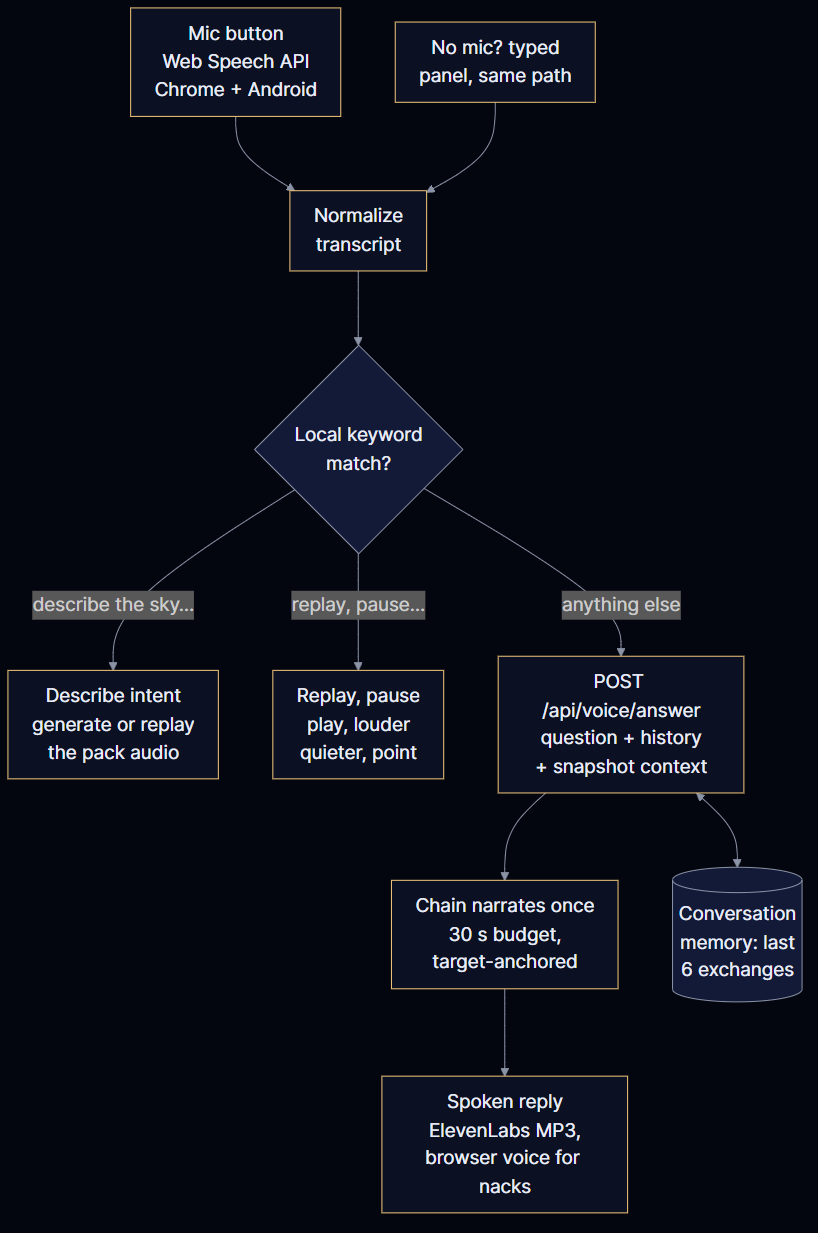
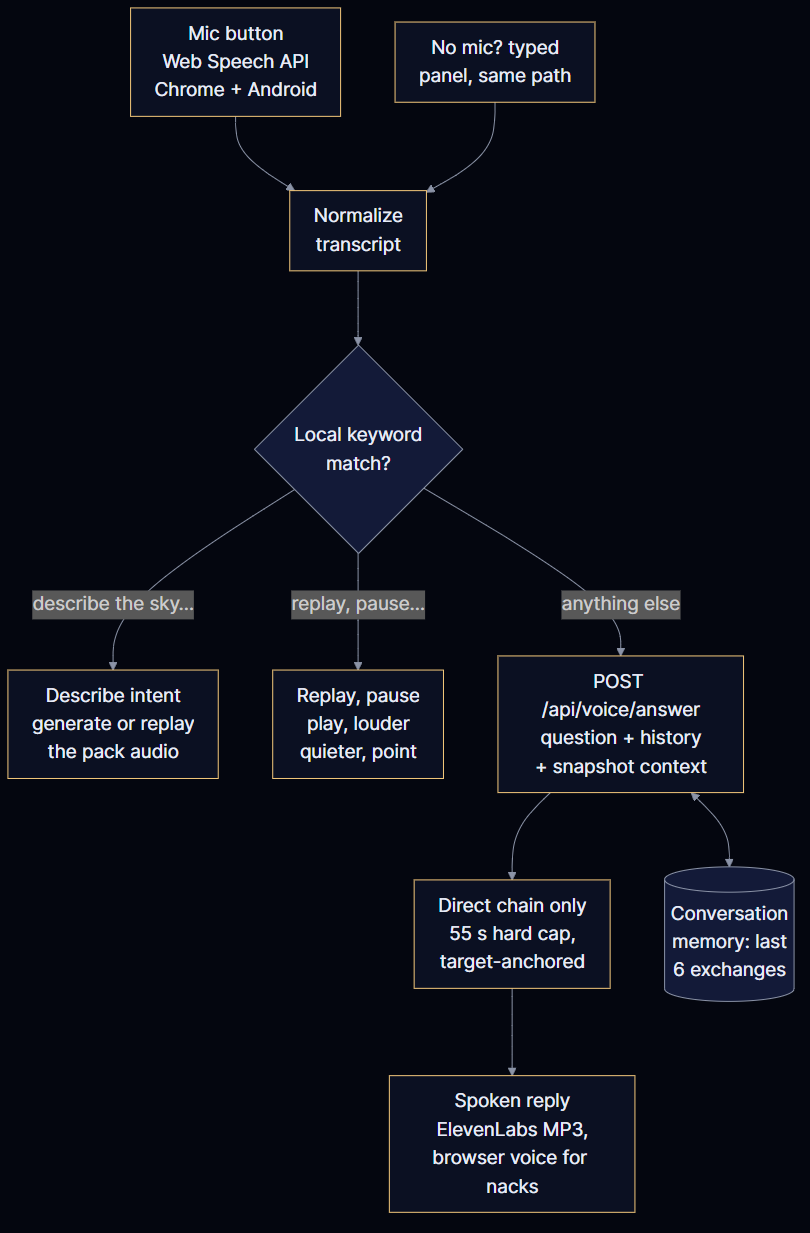
fix: bound voice chain, fuzzy describe intent, no default-city answers

diff --git a/src/frontend/src/lib/voiceIntent.ts b/src/frontend/src/lib/voiceIntent.ts
@@ -66,6 +66,19 @@ const QUESTION_OPENERS = [
   'could you', 'will there', 'do you',
 ];
 
+/**
+ * Named bodies — a question naming one is about THAT body ("tell me more
+ * about Saturn", "is Venus up tonight") and must reach the agent, never
+ * the whole-sky describe path. Generic words stay too: "what planets are
+ * up" is a listing question for the agent, not a narration request.
+ */
+const BODY_WORDS = [
+  'sun', 'moon', 'mercury', 'venus', 'mars', 'jupiter', 'saturn',
+  'uranus', 'neptune', 'star', 'stars', 'planet', 'planets',
+  'constellation', 'orion', 'sirius', 'vega', 'polaris', 'iss',
+  'satellite', 'satellites', 'milky way', 'comet', 'meteor', 'meteors',
+];
+
 function normalize(text: string): string {
   return text.toLowerCase().replace(/[?!.,;:]/g, '').replace(/\s+/g, ' ').trim();
 }
@@ -87,7 +100,8 @@ export interface MatchOptions {
 
 /**
  * Match a final transcript against the keyword list. Priority order is
- * deliberate: volume, then transport controls, then narration, then wake.
+ * deliberate: volume, then transport controls, then preset narration
+ * phrases, then fuzzy sky/tonight describe (no named body), then wake.
  * After that, anything shaped like a genuine question goes to the agent —
  * no wake word required, because the mic is already explicitly on and the
  * user is clearly addressing the sky, not musing aloud.
@@ -115,6 +129,16 @@ export function matchIntent(transcript: string, opts: MatchOptions = {}): VoiceI
 
   const words = text.split(' ');
   const substantial = words.length >= 3;
+  // Fuzzy describe: sky/tonight talk with no named body in it ("what's
+  // tonight sky", "how's the sky tonight") is a narration request, even
+  // though it matches no preset phrase. Runs before question routing so
+  // such speech never pays for a server round-trip.
+  if (words.length >= 2) {
+    const tokens = new Set(words);
+    const skyTalk = tokens.has('sky') || tokens.has('tonight');
+    const namesBody = BODY_WORDS.some((b) => includesPhrase(text, b));
+    if (skyTalk && !namesBody) return { type: 'describe' };
+  }
   // Direct questions: ends with "?" or opens like one ("where can…").
   // The mic being on is consent enough — no wake word demanded.
   if (substantial) {

diff --git a/src/frontend/src/App.tsx b/src/frontend/src/App.tsx
@@ -145,6 +145,17 @@ export default function App() {
     lat: geo.lat ?? 22.57,
     lon: geo.lon ?? 88.36,
   });
+  // Voice answers must never silently use the default city: prefer the live
+  // fix, fall back to the prepared pack's sky, else no coordinates at all
+  // (VoiceBar then says so instead of answering for the wrong place).
+  const snapLoc = packData?.snapshot?.location;
+  const askLat = geo.lat ?? (typeof snapLoc?.latitude === 'number' ? snapLoc.latitude : null);
+  const askLon = geo.lon ?? (typeof snapLoc?.longitude === 'number' ? snapLoc.longitude : null);
+  // Pointer opens only from a prepared pack, so the pack's sky always
+  // exists; live GPS wins when present. The trailing defaults are
+  // unreachable in practice (the button is snapshot-gated).
+  const ptrLat = askLat ?? (typeof snapLoc?.latitude === 'number' ? snapLoc.latitude : 22.57);
+  const ptrLon = askLon ?? (typeof snapLoc?.longitude === 'number' ? snapLoc.longitude : 88.36);
 
   const voiceDescribe = () => {
     if (hasPack) {
@@ -387,8 +398,8 @@ export default function App() {
           onReplay={voiceReplay}
           onTransport={voiceTransport}
           onVolume={voiceVolume}
-          lat={geo.lat}
-          lon={geo.lon}
+          lat={askLat}
+          lon={askLon}
         />
 
         <LocationGate
@@ -402,8 +413,8 @@ export default function App() {
         <BlackoutPointerGate
           open={pointerOpen}
           snapshot={snapshot}
-          lat={geo.lat ?? 22.57}
-          lon={geo.lon ?? 88.36}
+          lat={ptrLat}
+          lon={ptrLon}
           onClose={() => setPointerOpen(false)}
           onTransport={voiceTransport}
           onReplay={() => {

diff --git a/src/frontend/src/components/VoiceBar.tsx b/src/frontend/src/components/VoiceBar.tsx
@@ -97,6 +97,18 @@ export function VoiceBar({ onDescribe, onReplay, onTransport, onVolume, lat, lon
     setReply(null);
     setReplyAudio(null);
     setFailReason(null);
+    // Never answer for a silent default city: without a real fix (or a
+    // prepared pack's sky) the reply would describe the wrong sky.
+    const qlat = lat;
+    const qlon = lon;
+    if (qlat === null || qlon === null) {
+      setAsk('error');
+      errorChime();
+      setFailReason(
+        'No location yet — share it in Prepare above, or prepare a pack first, so the answer is about your sky.',
+      );
+      return;
+    }
     await ensureAudio();
     workingChime();
     const ctrl = new AbortController();
@@ -107,8 +119,8 @@ export function VoiceBar({ onDescribe, onReplay, onTransport, onVolume, lat, lon
         headers: { 'Content-Type': 'application/json' },
         signal: ctrl.signal,
         body: JSON.stringify({
-          latitude: lat ?? 22.57,
-          longitude: lon ?? 88.36,
+          latitude: qlat,
+          longitude: qlon,
           timestamp: new Date().toISOString(),
           transcript: query,
           history: lastExchange.current ? [lastExchange.current] : [],

diff --git a/tests/integration/test_api.py b/tests/integration/test_api.py
@@ -150,9 +150,11 @@ class TestVoiceEndpoint:
 
         from src.backend.narration import llm_provider
 
-        async def fake_narrate(snap, duration_seconds=90, extra_context=None, budget_s=None):
+        async def fake_narrate(snap, duration_seconds=90, extra_context=None, budget_s=None,
+                             use_mastra=True):
             assert extra_context and "bright" in extra_context
             assert duration_seconds == 30
+            assert use_mastra is False  # voice never pays for a harness spawn
             return {"script": "The moon is high and the night is clear for listening.",
                     "word_count": 12, "word_budget": 72, "claims": [], "warnings": [],
                     "fallback_used": False, "model": "m", "provider": "test",
@@ -178,7 +180,8 @@ class TestVoiceEndpoint:
 
         seen: dict = {}
 
-        async def fake_narrate(snap, duration_seconds=90, extra_context=None, budget_s=None):
+        async def fake_narrate(snap, duration_seconds=90, extra_context=None, budget_s=None,
+                             use_mastra=True):
             seen["context"] = extra_context or ""
             return {"script": "Jupiter is the bright one you asked about, high in the south.",
                     "word_count": 12, "word_budget": 72, "claims": [], "warnings": [],
@@ -196,6 +199,28 @@ class TestVoiceEndpoint:
         assert r.status_code == 200
         assert "Jupiter, high in the south" in seen["context"]
         assert "tell me more about Jupiter" in seen["context"]
+
+    def test_hung_chain_falls_back_to_template(self, client):
+        """A chain that eats the whole voice budget must not hang the
+        endpoint: the hard cap converts it to a template answer."""
+        import asyncio
+        from unittest.mock import patch
+
+        from src.backend.narration import llm_provider
+
+        async def fake_hang(*args, **kwargs):
+            raise asyncio.TimeoutError()
+
+        with patch.object(llm_provider, "narrate_with_model", side_effect=fake_hang):
+            r = client.post("/api/voice/answer", json={
+                "latitude": 22.5726, "longitude": 88.3639,
+                "timestamp": "2026-10-07T18:00:00Z",
+                "transcript": "what is that bright one",
+            })
+        assert r.status_code == 200
+        body = r.json()
+        assert body["provider"] == "template"
+        assert len(body["reply"]) > 100
 
 
 class TestPackStream:
@@ -289,7 +314,8 @@ class TestPackStream:
 
         seen: dict = {}
 
-        async def fake_narrate(snap, duration_seconds=90, extra_context=None, budget_s=None):
+        async def fake_narrate(snap, duration_seconds=90, extra_context=None, budget_s=None,
+                             use_mastra=True):
             seen["context"] = extra_context or ""
             return {"script": "Jupiter is the bright one you asked about, high in the south.",
                     "word_count": 12, "word_budget": 72, "claims": [], "warnings": [],

diff --git a/src/backend/api/routes.py b/src/backend/api/routes.py
@@ -334,9 +334,13 @@ async def get_audio(pack_id: str) -> Response:
 async def voice_answer(body: dict) -> JSONResponse:
     """Spoken answer to a free-form voice question (M3 agent loop).
 
-    Builds a fresh snapshot for the given instant, runs the model chain at
-    a short 30-second budget, and renders TTS when configured. Satellites
-    and weather are skipped on purpose: voice answers must stay fast.
+    Builds a fresh snapshot for the given instant, runs the direct-HTTPS
+    model chain (no harness spawn — a Node cold-start costs more than a
+    voice answer's whole budget), and renders TTS when configured.
+    Hard-capped: narration gets 55 s wall-clock, then the template answers,
+    so the client's 100 s abort can never trigger from this endpoint.
+    Satellites and weather are skipped on purpose: voice answers must
+    stay fast.
     """
     try:
         lat = float(body.get("latitude"))
@@ -377,7 +381,16 @@ async def voice_answer(body: dict) -> JSONResponse:
                 prior.append(f"Earlier they asked: {q} You answered: {a}")
         if prior:
             question = "\n".join(prior) + "\nNow they follow up: " + question
-    result = await narrate_with_model(snap, 30, extra_context=question, budget_s=80.0)
+    try:
+        result = await asyncio.wait_for(
+            narrate_with_model(snap, 30, extra_context=question,
+                               budget_s=50.0, use_mastra=False),
+            timeout=55.0,
+        )
+    except (asyncio.TimeoutError, TimeoutError):
+        # Chain ate the whole voice budget (stacked provider timeouts).
+        # Fall through to the template — a fast honest answer beats none.
+        result = None
     if result is not None:
         text, provider, model = result["script"], result["provider"], result["model"]
         generation = result.get("generation")

diff --git a/src/backend/narration/llm_provider.py b/src/backend/narration/llm_provider.py
@@ -374,6 +374,7 @@ def _result(snap: SkySnapshot, text: str, facts: dict, budget: int,
 async def narrate_with_model(
     snap: SkySnapshot, duration_seconds: int = 90,
     extra_context: str | None = None, budget_s: float | None = None,
+    use_mastra: bool = True,
 ) -> dict[str, Any] | None:
     """Walk the model chain. Returns the first validated transcript, or None
     so the caller uses the template narrator.
@@ -385,7 +386,9 @@ async def narrate_with_model(
     honored first by every path, including the Mastra workflow. The caller
     can read the reasons from `last_attempts()` after a None result. Mastra
     is tried once, on the first rung; its output still goes through the
-    same length and validation gates.
+    same length and validation gates. `use_mastra=False` skips the harness
+    spawn (a Node cold-start costs more than a voice answer's whole budget)
+    and walks the direct-HTTPS rungs only.
     """
     import time
 
@@ -423,7 +426,9 @@ async def narrate_with_model(
 
     # One harness spawn per pack: Node cold-start is the most expensive
     # step on a small instance, so Mastra rides the first rung only.
-    mastra_pending = mastra_up
+    # Voice answers skip it entirely (use_mastra=False): the spawn alone
+    # costs more than their whole time budget.
+    mastra_pending = mastra_up and use_mastra
 
     for cfg in stages:
         if time.monotonic() - started > budget_s:

diff --git a/docs/architecture.md b/docs/architecture.md
@@ -64,8 +64,10 @@ each rung gets 55 seconds, and the whole walk gets 150 — past that the
 template answers rather than hanging. Every pack records which rung
 answered and why the others did not (`narration.provider`,
 `orchestrator`, `generation`), and the UI surfaces it. Voice answers run
-the same chain at a 30-second budget with an 80-second ceiling, carrying
-the listener's question and recent exchange as context.
+the direct-HTTPS rungs only (no harness spawn — a Node cold-start costs
+more than a voice answer's whole budget) under a 55-second hard cap, then
+the template answers; the endpoint carries the listener's question and
+recent exchange as context.
 
 ## Voice loop
 

diff --git a/docs/api.md b/docs/api.md
@@ -178,10 +178,10 @@ Returns the plain-text narration.
 ## `POST /api/voice/answer`
 
 Spoken answer to a free-form voice question (hands-free loop). Builds a
-fresh snapshot for the given instant, runs the model chain at a short
-30-second budget with the question honored first, and renders TTS when
-configured. Satellites and weather are skipped on purpose — voice answers
-must stay fast.
+fresh snapshot for the given instant, runs the direct-HTTPS chain rungs
+with the question honored first under a 55-second hard cap (then the
+template answers), and renders TTS when configured. Satellites and weather
+are skipped on purpose — voice answers must stay fast.
 
 **Request**
 
